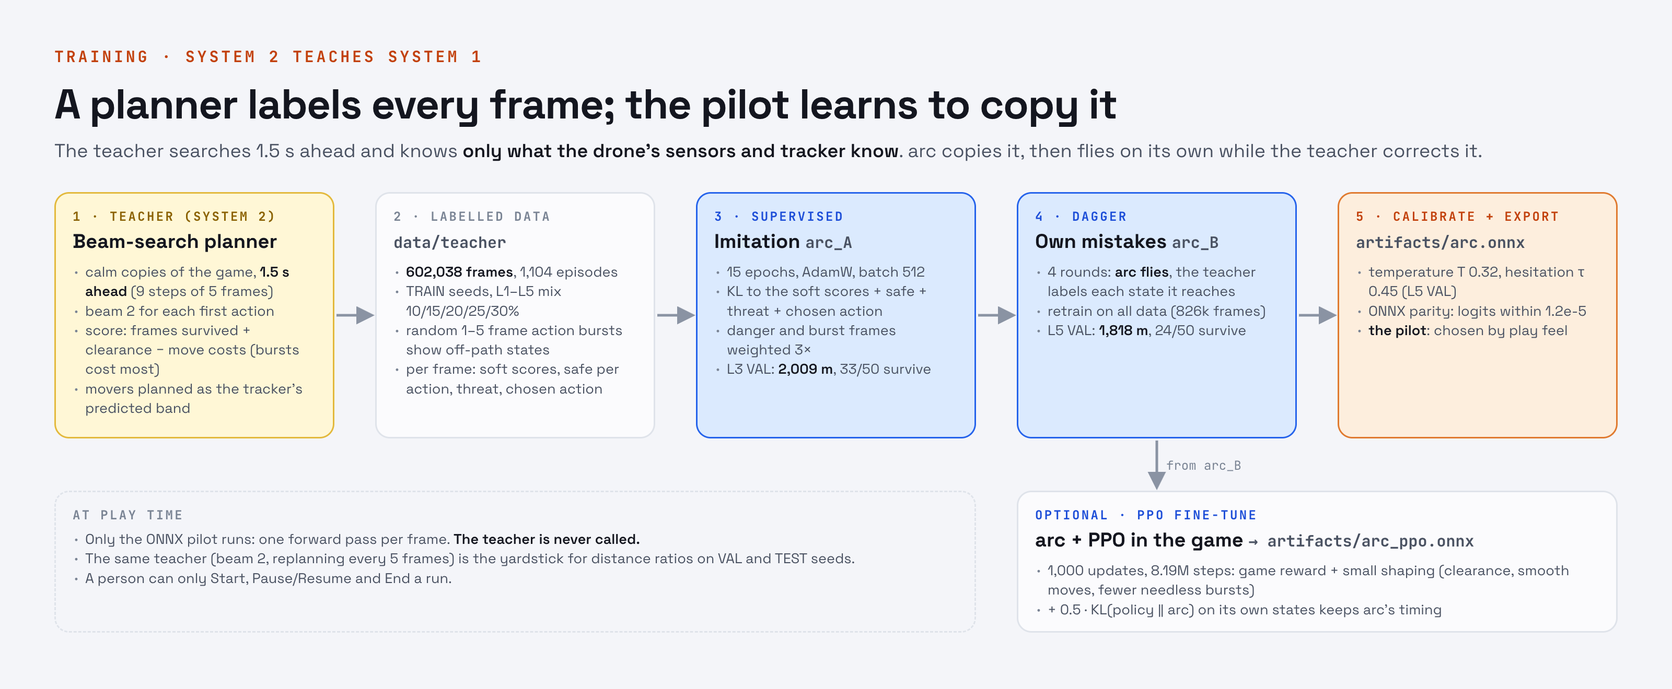
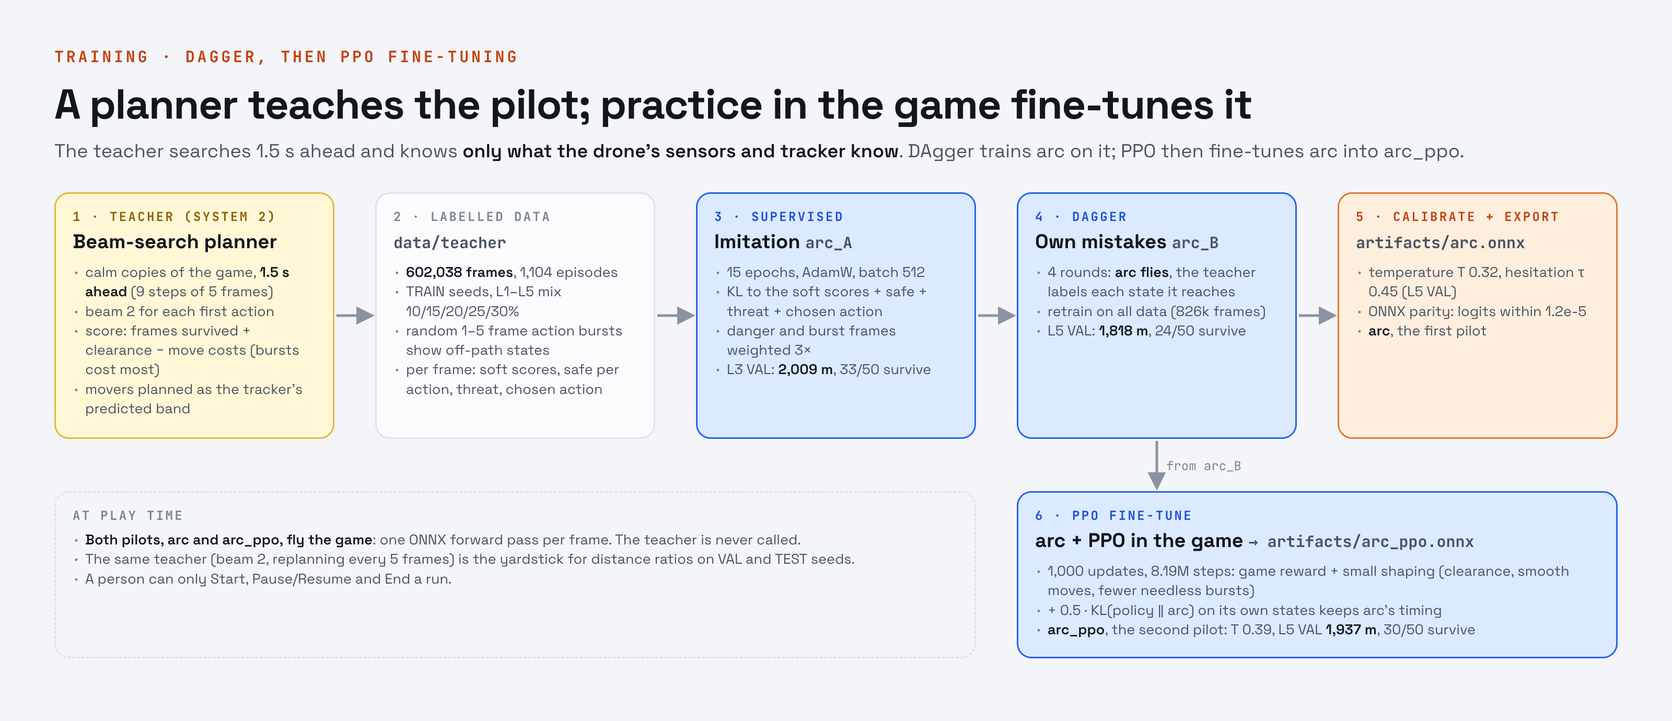
arc_ppo: TEST and STRESS; docs present both trained pilots
arc is trained with DAgger and arc_ppo is arc fine-tuned with PPO. Both
are finished pilots and both fly in the game; the docs no longer call
PPO optional or a try.

arc_ppo was run once on the same TEST and STRESS seeds as arc: L5 TEST
ratio 0.943 (arc 0.885), stress 1.001 (arc 0.978), stress drop -0.062.
L1-L5 TEST mean distance is a tie (1,982 m each). README, model card,
run log and the training pipeline figure are updated.

diff --git a/docs/figures/src/training_pipeline.html b/docs/figures/src/training_pipeline.html
@@ -1,7 +1,7 @@
 <!doctype html>
 <!-- Source of docs/figures/training_pipeline.png. Render from reflex-drone/:
      "/Applications/Google Chrome.app/Contents/MacOS/Google Chrome" --headless=new --hide-scrollbars \
-       --force-device-scale-factor=2 --window-size=1600,660 --virtual-time-budget=8000 \
+       --force-device-scale-factor=2 --window-size=1600,690 --virtual-time-budget=8000 \
        --screenshot=docs/figures/training_pipeline.png docs/figures/src/training_pipeline.html -->
 <html lang="en"><head><meta charset="utf-8"><title>Training pipeline</title>
 <link rel="stylesheet" href="https://fonts.googleapis.com/css2?family=JetBrains+Mono:wght@400;700&family=Space+Grotesk:wght@400;500;600;700&display=block">
@@ -11,13 +11,13 @@
  --bl:#2563eb;--bl-tint:#dbeafe;--bl-txt:#1d4ed8;--y-tint:#fff7d6;--y-line:#e3b93c;--y-txt:#8a6100;
  --sans:"Space Grotesk",system-ui,sans-serif;--mono:"JetBrains Mono",monospace}
 *{box-sizing:border-box;margin:0;padding:0}
-html,body{width:1600px;height:660px;background:var(--bg);font-family:var(--sans);color:var(--ink);-webkit-font-smoothing:antialiased;overflow:hidden}
+html,body{width:1600px;height:690px;background:var(--bg);font-family:var(--sans);color:var(--ink);-webkit-font-smoothing:antialiased;overflow:hidden}
 .page{padding:44px 52px 0}
 .kicker{font-family:var(--mono);font-weight:700;font-size:15px;letter-spacing:.16em;text-transform:uppercase;color:var(--or)}
 h1{font-weight:700;font-size:40px;letter-spacing:-.02em;margin-top:10px}
 .lead{font-size:18px;color:var(--ink2);margin-top:8px}
 .lead b{color:var(--ink);font-weight:600}
-.flow{position:relative;width:1496px;height:430px;margin-top:28px}
+.flow{position:relative;width:1496px;height:454px;margin-top:28px}
 .box{position:absolute;border-radius:14px;border:1.5px solid var(--line);background:var(--card);padding:14px 16px}
 .box .k{font-family:var(--mono);font-weight:700;font-size:12px;letter-spacing:.14em;text-transform:uppercase;color:var(--muted)}
 .box .t{font-weight:700;font-size:19px;margin-top:4px}
@@ -32,9 +32,9 @@ h1{font-weight:700;font-size:40px;letter-spacing:-.02em;margin-top:10px}
 .box.plain{border-style:dashed;background:transparent}
 svg.ov{position:absolute;left:0;top:0;overflow:visible}
 </style></head><body><div class="page">
-<div class="kicker">Training · System 2 teaches System 1</div>
-<h1>A planner labels every frame; the pilot learns to copy it</h1>
-<div class="lead">The teacher searches 1.5 s ahead and knows <b>only what the drone's sensors and tracker know</b>. arc copies it, then flies on its own while the teacher corrects it.</div>
+<div class="kicker">Training · DAgger, then PPO fine-tuning</div>
+<h1>A planner teaches the pilot; practice in the game fine-tunes it</h1>
+<div class="lead">The teacher searches 1.5 s ahead and knows <b>only what the drone's sensors and tracker know</b>. DAgger trains arc on it; PPO then fine-tunes arc into arc_ppo.</div>
 
 <div class="flow">
   <div class="box y" style="left:0;top:0;width:268px;height:236px">
@@ -60,23 +60,24 @@ svg.ov{position:absolute;left:0;top:0;overflow:visible}
   <div class="box or" style="left:1228px;top:0;width:268px;height:236px">
     <div class="k">5 · Calibrate + export</div>
     <div class="t"><code>artifacts/arc.onnx</code></div>
-    <ul><li>temperature T 0.32, hesitation τ 0.45 (L5 VAL)</li><li>ONNX parity: logits within 1.2e-5</li><li><b>the pilot</b>: chosen by play feel</li></ul>
+    <ul><li>temperature T 0.32, hesitation τ 0.45 (L5 VAL)</li><li>ONNX parity: logits within 1.2e-5</li><li><b>arc</b>, the first pilot</li></ul>
   </div>
 
-  <div class="box plain" style="left:0;top:286px;width:882px;height:136px">
+  <div class="box plain" style="left:0;top:286px;width:882px;height:160px">
     <div class="k">At play time</div>
-    <ul style="margin-top:6px"><li>Only the ONNX pilot runs: one forward pass per frame. <b>The teacher is never called.</b></li>
+    <ul style="margin-top:6px"><li><b>Both pilots, arc and arc_ppo, fly the game</b>: one ONNX forward pass per frame. The teacher is never called.</li>
     <li>The same teacher (beam 2, replanning every 5 frames) is the yardstick for distance ratios on VAL and TEST seeds.</li>
     <li>A person can only Start, Pause/Resume and End a run.</li></ul>
   </div>
-  <div class="box" style="left:921px;top:286px;width:575px;height:136px">
-    <div class="k" style="color:var(--bl-txt)">Optional · PPO fine-tune</div>
+  <div class="box bl" style="left:921px;top:286px;width:575px;height:160px">
+    <div class="k">6 · PPO fine-tune</div>
     <div class="t">arc + PPO in the game <code>→ artifacts/arc_ppo.onnx</code></div>
     <ul><li>1,000 updates, 8.19M steps: game reward + small shaping (clearance, smooth moves, fewer needless bursts)</li>
-    <li>+ 0.5 · KL(policy ‖ arc) on its own states keeps arc's timing</li></ul>
+    <li>+ 0.5 · KL(policy ‖ arc) on its own states keeps arc's timing</li>
+    <li><b>arc_ppo</b>, the second pilot: T 0.39, L5 VAL <b>1,937 m</b>, 30/50 survive</li></ul>
   </div>
 
-  <svg class="ov" width="1496" height="430">
+  <svg class="ov" width="1496" height="454">
     <defs><marker id="ah" viewBox="0 0 10 10" refX="8" refY="5" markerWidth="7" markerHeight="7" orient="auto-start-reverse"><path d="M0 0 L10 5 L0 10 z" fill="#8a93a3"/></marker></defs>
     <g stroke="#8a93a3" stroke-width="2.5" fill="none">
       <path d="M270 118 H303" marker-end="url(#ah)"/>

diff --git a/README.md b/README.md
@@ -1,5 +1,5 @@
 <h1 align="center">Project J'AI 2 · Reflex Drone</h1>
-<h3 align="center">arc: a System 1 pilot that flies a drone by reflex, one frame in and one move out, 30 times a second</h3>
+<h3 align="center">arc and arc_ppo: System 1 pilots that fly a drone by reflex, one frame in and one move out, 30 times a second</h3>
 
 <p align="center">
   <a href="https://medium.com/@jaiganesan"><img alt="Medium: @jaiganesan" src="https://img.shields.io/badge/Medium-@jaiganesan-000000?style=for-the-badge&logo=medium&logoColor=white"></a>
@@ -23,11 +23,16 @@
 
 <sub>arc flying the endless level on its own at 10.9–11.0 km (L5+, 12 m/s), through gusts, a speed surge, a downdraft, storm clouds, birds and a plane. The full 70-second run is <a href="#watch-the-full-run">below</a>.</sub>
 
-| **179,847** | **0.14 ms** | **93% · 43%** | **5.1 km** |
+| **179,847** | **0.14 ms** | **0.89 · 0.94** | **5.1 · 6.8 km** |
 | :---: | :---: | :---: | :---: |
-| weights in a 1 MB ONNX file | per decision on one CPU thread (p99 0.16 ms) | of L1 · L5 TEST runs fly the full 200 s | median endless run before the first crash |
+| weights per pilot, in a 1 MB ONNX file | per decision on one CPU thread (p99 0.16 ms) | L5 TEST distance ratio against the planner (arc · arc_ppo) | median endless run before the first crash (arc · arc_ppo) |
 
-DroneDash is a Chrome-Dino-style side-scroller in which a drone flies itself. Each frame, it reads its sensors and picks one of five actions: HOLD, ASCEND, DESCEND, JUMP or DUCK. The pilot, **arc**, is a 179,847-weight attention network. It learned by copying a planner that searches 1.5 s ahead, and at play time only arc runs. A person can Start, Pause/Resume or End a run, and nothing else. Everything runs on one MacBook Air: the game and pilot on the CPU, training on Apple MPS, with packages from [uv](https://docs.astral.sh/uv/).
+DroneDash is a Chrome-Dino-style side-scroller in which a drone flies itself. Each frame, it reads its sensors and picks one of five actions: HOLD, ASCEND, DESCEND, JUMP or DUCK. The pilot is a 179,847-weight attention network, trained with two methods:
+
+- **arc** is trained with **DAgger**. It learns by copying a planner that searches 1.5 s ahead, then flies on its own while the planner labels every state it reaches.
+- **arc_ppo** is arc **fine-tuned with PPO** in the game itself: the same network with new weights.
+
+Both are trained pilots, and **both fly in the game**: `--agent` picks which one. At play time only the pilot runs, never the planner. A person can Start, Pause/Resume or End a run, and nothing else. Everything runs on one MacBook Air: the game and pilot on the CPU, training on Apple MPS, with packages from [uv](https://docs.astral.sh/uv/).
 
 > [!NOTE]
 > **Objective.** Train a Type 1 decision model: fast, automatic and pattern-driven, in the sense of Kahneman's System 1. The model flies a drone through a side-scroller. Each frame, it observes the world and picks one of 5 actions with minimal latency. The goal is to survive as long as possible and fly as far as possible, using learned reflexes rather than planning.
@@ -35,9 +40,9 @@ DroneDash is a Chrome-Dino-style side-scroller in which a drone flies itself. Ea
 | Contents | |
 | --- | --- |
 | [1. What is the project?](#1-what-is-the-project) | The scenario rules, the game, the snapshot |
-| [2. Architecture](#2-architecture) | The decision model, its inputs and outputs, weight counts, and how it was trained |
+| [2. Architecture](#2-architecture) | The decision model, its inputs and outputs, weight counts, and training (DAgger, then PPO) |
 | [3. Simple maths](#3-simple-maths) | Physics, tokens, attention, the decision, the teacher, the losses, the metric |
-| [4. Results and discussion](#4-results-and-discussion) | VAL and TEST, how it flies, endless runs, the gates, arc vs arc_ppo |
+| [4. Results and discussion](#4-results-and-discussion) | VAL and TEST for both pilots, how they fly, endless runs, the gates, arc vs arc_ppo |
 | [5. How to use this repo](#5-how-to-use-this-repo) | Install, play, train, evaluate, test, use from code, layout |
 
 ---
@@ -101,7 +106,7 @@ arc flying the endless level on its own for 70 s, uncut, from 10.46 to 11.28 km 
 
 ### 2.1 The decision model
 
-arc is shown in the figure at the top. One frame becomes a **set of 20 tokens**, each 64 wide, with no position embeddings, because obstacles have no natural order:
+arc is shown in the figure at the top. arc_ppo has the same network and differs only in its weights. One frame becomes a **set of 20 tokens**, each 64 wide, with no position embeddings, because obstacles have no natural order:
 
 | Token | Input | Encoder |
 | --- | --- | --- |
@@ -133,9 +138,11 @@ Code: `models/arc.py`. Settings: `configs/train/arc.yaml`.
 | Value head (training only, not exported) | 65 |
 | **Total** | **179,847** (179,782 in `artifacts/arc.onnx`) |
 
-### 2.2 Training: System 2 teaches System 1
+### 2.2 Training: DAgger, then PPO
 
 ![Training pipeline](docs/figures/training_pipeline.png)
+
+Two training methods, one after the other. **DAgger** trains arc from the planner (System 2 teaches System 1, steps 1–5). **PPO** then fine-tunes arc by practice in the game, which gives arc_ppo (step 6). Both pilots are calibrated, exported to ONNX and flown in the game.
 
 1. **Teacher** (`teacher/planner.py`, `configs/train/teacher.yaml`). A beam search on calm copies of the game: 9 macro steps of 5 frames (1.5 s), with a beam of 2 for each first action.
    - It knows only what the pilot knows: the 20 m sensor range, and movers as the tracker's predicted band.
@@ -145,10 +152,12 @@ Code: `models/arc.py`. Settings: `configs/train/arc.yaml`.
    - Labels for each frame: soft scores, safe per action, threat, and the chosen action.
 3. **Supervised** `arc_A` (`train/supervised.py`). 15 epochs on Apple MPS, about 8 minutes.
 4. **DAgger** `arc_B` (`data/dagger.py`). 4 rounds: arc flies, the teacher labels every state it reaches, and arc retrains on all the data so far (826k frames).
-5. **Calibrate and export** (`train/calibrate.py`, `train/export_onnx.py`).
+5. **Calibrate and export arc** (`train/calibrate.py`, `train/export_onnx.py`) to `artifacts/arc.onnx`.
    - Temperature T = 0.32. Hesitation threshold τ = 0.45, shown on the HUD and never handed off.
    - ONNX logits are within 1.2e-5 of PyTorch.
-6. **Optional PPO** (`train/ppo.py`, run `arc_ppo`). 1,000 updates in the real game, anchored to arc by a KL term.
+6. **PPO fine-tuning: arc_ppo** (`train/ppo.py`, `scripts/train_arc_ppo.sh`). Starting from arc's weights, 1,000 updates of practice in the real game, anchored to arc by a KL term.
+   - The best update (560) is calibrated (T = 0.39, τ = 0.45) and exported to `artifacts/arc_ppo.onnx`.
+   - ONNX logits are within 1.1e-5 of PyTorch.
 
 | Setting | Supervised `arc_A` | DAgger `arc_B` | PPO `arc_ppo` |
 | --- | --- | --- | --- |
@@ -232,17 +241,19 @@ Mean distance, and the share of runs that fly the full 200 s. Each run is capped
 | | L1 | L2 | L3 | L4 | L5 | stress |
 | --- | --- | --- | --- | --- | --- | --- |
 | **arc, TEST** (100 unseen seeds, run once) | 1,947 m · 93% | 2,174 m · 77% | 2,020 m · 65% | 2,070 m · 63% | 1,697 m · 43% | 832 m · 2% |
+| **arc_ppo, TEST** (the same seeds, run once) | 1,999 m · 98% | 2,071 m · 73% | 1,996 m · 64% | 2,035 m · 66% | 1,808 m · 51% | 852 m · 3% |
+| arc_ppo − arc on TEST, paired, ± 1 se | +52 ± 36 m | −103 ± 51 m | −24 ± 70 m | −35 ± 89 m | +111 ± 102 m | +20 ± 90 m |
 | arc, VAL (50 seeds) | 1,922 m · 92% | 2,112 m · 80% | 2,135 m · 76% | 1,881 m · 52% | 1,818 m · 48% | |
 | arc_ppo, VAL (same 50 seeds) | 2,012 m · 98% | 2,057 m · 72% | 2,092 m · 72% | 1,866 m · 56% | 1,937 m · 60% | |
-| arc_ppo − arc, paired, ± 1 se | +91 ± 54 m | −55 ± 130 m | −43 ± 92 m | −15 ± 133 m | +120 ± 130 m | |
+| arc_ppo − arc on VAL, paired, ± 1 se | +91 ± 54 m | −55 ± 130 m | −43 ± 92 m | −15 ± 133 m | +120 ± 130 m | |
 
-**The headline result is arc's L5 TEST distance ratio: 0.89**, at an `act()` p99 of 0.16 ms.
+**The headline result is the L5 TEST distance ratio: 0.89 for arc and 0.94 for arc_ppo**, at an `act()` p99 of 0.16 ms.
 
-- **L5 TEST:** the reference planner flies 1,918 m on the same 100 seeds (57% survive); arc flies 1,697 m.
-- **Stress:** arc's ratio is 0.98. The planner also struggles there: 851 m, with 3% of runs surviving.
+- **L5 TEST:** the reference planner flies 1,918 m on the same 100 seeds (57% survive). arc flies 1,697 m and arc_ppo 1,808 m.
+- **Stress:** arc's ratio is 0.98 and arc_ppo's 1.00. The planner also struggles there: 851 m, with 3% of runs surviving.
 - **L5 VAL:** against the planner's 1,953 m (33 of 50 survive), arc's ratio is 0.93 and arc_ppo's is 0.99.
 
-### 4.2 How it flies
+### 4.2 How they fly
 
 Jai judges a pilot by how it looks in play: it should fly smoothly at a sensible height, mostly HOLD, and use slow moves first. Measured greedily on 8 VAL seeds per level:
 
@@ -265,13 +276,13 @@ The recording above is arc on another endless seed, still flying at 11.3 km.
 | G3 first reflexes | `arc_A` ratio ≥ 0.50 on L3 VAL | pass: 2,009 m, 33/50 survive (ratio 1.40 against the planner of that time) |
 | G4 corrected | `arc_B` ratio ≥ 0.75 on L5 VAL | pass: 0.93 |
 | G5 practised | final pilot's ratio ≥ 0.90 on L5 VAL | pass: arc 0.93, arc_ppo 0.99 |
-| G6 final | `act()` p99 < 1 ms; stress drop ≤ 0.20 | pass: p99 0.16 ms; stress drop −0.10 (0.98 vs 0.89) |
+| G6 final | `act()` p99 < 1 ms; stress drop ≤ 0.20 | pass for both: p99 0.16 ms; stress drop −0.10 for arc (0.98 vs 0.89) and −0.06 for arc_ppo (1.00 vs 0.94) |
 
 Ratios use the current reference: `teacher.yaml`, beam 2, replanning every 5 frames. G2 (the teacher's own gate) was checked in session 3 for the first teacher. It has not been re-run for the v2.3 teacher, which flies the full 200 s on 33 of 50 L5 VAL seeds.
 
 ### 4.4 Discussion
 
-- **The reflex is real.** One forward pass of 0.14 ms flies 89% as far as the teacher's 1.5 s search on L5 TEST (93% on VAL). On L1, 93% of TEST runs fly the full 200 s. arc never calls a planner; its look-ahead is learned.
+- **The reflex is real.** One forward pass of 0.14 ms flies 89% (arc) and 94% (arc_ppo) as far as the teacher's 1.5 s search on L5 TEST. On L1, 93% and 98% of TEST runs fly the full 200 s. Neither pilot calls a planner; the look-ahead is learned.
 - **Timing comes from the teacher.** arc starts its moves about 1.0–1.15 s before an obstacle reaches its path, close to the teacher's 1.15–1.25 s, not at the last moment. It holds 77–92% of the time and mostly uses ASCEND and DESCEND.
 - **The student copies only what it can see.** Earlier teachers knew things the pilot didn't: a bird's exact path, or obstacles beyond sensor range. Their students held where the teacher moved. The fix was to give both the same view: sensor-limited planning, and an object tracker that both of them use.
 - **Where arc fails.**
@@ -280,10 +291,10 @@ Ratios use the current reference: `teacher.yaml`, beam 2, replanning every 5 fra
   - Stress (14.4 m/s, every interruption at once) is far outside its training. Only 2% of stress runs survive.
 - **arc vs arc_ppo.**
   - PPO with a KL anchor kept arc's timing and height. It is the first PPO pilot here that did not turn late or cruise near the ceiling.
-  - It removed the ceiling crashes (0 vs 15 on VAL), cut bursts by a third and flew longer endless runs.
-  - It crashed more often into sudden storm clouds and traffic drones.
-  - Over L1–L5 VAL, mean distance is a tie (1,993 m vs 1,974 m); only the L1 gain is beyond seed noise.
-  - **arc stays the chosen pilot.** arc_ppo is kept as a try to compare against and has not been run on TEST.
+  - It nearly removed the ceiling crashes: 5 vs 31 on L1–L5 TEST, 4 vs 22 in stress, and 0 vs 15 on VAL. It also cut bursts by a third and flew longer endless runs.
+  - It crashes more often into buildings and traffic drones: 34 vs 24 and 11 vs 7 on L1–L5 TEST, and 25 vs 13 and 16 vs 8 in stress.
+  - Over L1–L5 TEST, mean distance is a tie (1,982 m each). arc_ppo is ahead on L1 and L5 (L5 ratio 0.94 vs 0.89), behind on L2 (−103 ± 51 m) and level in stress.
+  - **Both are finished pilots: both were run once on the same TEST and stress seeds, and both fly in the game.** arc_ppo is the steadier flier on long runs. arc is a little better on L2.
 
 More detail: inputs, network and training are in [reports/arc_model_card.md](reports/arc_model_card.md), and every run is in [reports/run_log.md](reports/run_log.md).
 
@@ -299,10 +310,12 @@ uv sync
 
 ### Play
 
+Both trained pilots fly in the game. Pass either ONNX file to `--agent`:
+
 ```bash
-uv run python -m app.play --agent onnx-arc:artifacts/arc.onnx                                   # arc, endless mode
+uv run python -m app.play --agent onnx-arc:artifacts/arc.onnx                                   # arc (DAgger), endless mode
+uv run python -m app.play --agent onnx-arc:artifacts/arc_ppo.onnx                               # arc_ppo (DAgger + PPO), endless mode
 uv run python -m app.play --agent onnx-arc:artifacts/arc.onnx --level L5 --seed 42 --show-attention
-uv run python -m app.play --agent onnx-arc:artifacts/arc_ppo.onnx                               # arc_ppo
 uv run python -m app.play --agent rule                                                          # hand-written test pilot
 ```
 
@@ -313,21 +326,21 @@ uv run python -m app.play --agent rule                                          
 | Q, Esc, **End** | End the run (on the summary screen: back to the title) |
 
 Flags are fixed for the whole session:
-- `--agent`: `onnx-arc:<path>`, `rule` or `random`.
+- `--agent`: `onnx-arc:<path>` (`artifacts/arc.onnx` or `artifacts/arc_ppo.onnx`), `rule` or `random`.
 - `--level`: `L1`–`L5`, `endless` (the default) or `stress`.
 - `--seed N`, `--log-frames`, `--show-attention`.
 
 Each run writes `runs/play/<time>_seed<seed>.json`, plus a per-frame CSV with `--log-frames`.
 
 > [!IMPORTANT]
-> `artifacts/`, `runs/`, `data/*/` and `reports/*.json` are git-ignored, so the trained pilots exist only on the machine that made them. On a fresh clone, run `bash scripts/train_arc.sh` first (about 1 h on AC power), or play the `rule` agent.
+> `artifacts/`, `runs/`, `data/*/` and `reports/*.json` are git-ignored, so the trained pilots exist only on the machine that made them. On a fresh clone, run `bash scripts/train_arc.sh` for arc (about 1 h on AC power), then `bash scripts/train_arc_ppo.sh` for arc_ppo (about 2.5 h), or play the `rule` agent.
 
 ### Train and evaluate
 
 ```bash
 bash scripts/smoke_pipeline.sh     # every step at toy size, about 3 min
-bash scripts/train_arc.sh          # teacher data -> supervised -> DAgger -> calibrate -> artifacts/arc.onnx -> VAL (about 1 h)
-bash scripts/train_arc_ppo.sh      # optional: PPO from arc -> artifacts/arc_ppo.onnx -> VAL (about 2.5 h on AC)
+bash scripts/train_arc.sh          # arc: teacher data -> supervised -> DAgger -> calibrate -> artifacts/arc.onnx -> VAL (about 1 h)
+bash scripts/train_arc_ppo.sh      # arc_ppo: PPO fine-tuning of arc -> calibrate -> artifacts/arc_ppo.onnx -> VAL (about 2.5 h on AC)
 
 uv run python -m eval.evaluate --agent onnx-arc:artifacts/arc.onnx --levels L1 L2 L3 L4 L5 --seeds val --out reports/arc_val.json
 uv run python -m eval.evaluate --agent planner --levels L5 --seeds val --out reports/planner_val.json      # the reference
@@ -335,7 +348,7 @@ uv run python -m eval.latency --agent onnx-arc:artifacts/arc.onnx --calls 10000 
 uv run python scripts/calibrate_tracker.py                                                                # after changing bird or drone motion
 ```
 
-- Run TEST and STRESS (`--seeds test --levels ... stress`) **once**, for the final pilot only.
+- Run TEST and STRESS (`--seeds test --levels ... stress`) **once** per finished pilot, never to pick settings. arc and arc_ppo have each had their run (`reports/arc_final.json`, `reports/arc_ppo_final.json`).
 - On a Mac, train on AC power under `caffeinate -i`. Low Power Mode makes the planner 3–10× slower and inflates latency numbers.
 - Settings: `configs/train/teacher.yaml` (the teacher and the reference), `collect.yaml`, `arc.yaml`, `dagger.yaml` and `ppo.yaml`.
 
@@ -353,7 +366,7 @@ uv run python -m app.rule_eval       # rule agent on the 50 L1 VAL seeds
 import gymnasium, drone_env
 from app.agents_base import load_agent
 
-pilot = load_agent("onnx-arc:artifacts/arc.onnx")             # or "rule", "random"
+pilot = load_agent("onnx-arc:artifacts/arc.onnx")             # or "onnx-arc:artifacts/arc_ppo.onnx", "rule", "random"
 env = gymnasium.make("DroneDash-v0", level="L3", max_frames=6_000)
 obs, info = env.reset(seed=123)
 pilot.reset(env.unwrapped.action_descriptors())

diff --git a/reports/arc_model_card.md b/reports/arc_model_card.md
@@ -96,8 +96,8 @@ The feed-forward layers are 4 × d wide. The 2 × d version (130,311 weights) fl
    - **Selection:** best round (4) by L5 VAL.
 6. **Calibrate again, export to ONNX** (parity check: logits within 1.2e-5 of PyTorch), evaluate.
 
-arc itself uses no reinforcement learning; arc_ppo (below) is arc plus PPO. At play time only the pilot runs;
-the planner is never called.
+arc is trained with DAgger and uses no reinforcement learning; arc_ppo (below) is arc fine-tuned with PPO. Both are
+trained pilots and both fly in the game. At play time only the pilot runs; the planner is never called.
 
 `scripts/train_arc.sh` runs steps 2–6.
 
@@ -152,19 +152,27 @@ the weights differ.
 - **Selection:** the best checkpoint by mean distance ratio on L1, L3 and L5 (10 VAL seeds each, every 20 updates):
   update 560. Then calibration (T 0.39, τ 0.45) and ONNX export (parity within 1.1e-5).
 
-**Results** (VAL, the same 50 seeds per level as arc):
+**Results** (the same seeds as arc; TEST and STRESS run once, 20 Oct 2026):
 
-| | L1 | L2 | L3 | L4 | L5 |
-|---|---|---|---|---|---|
-| arc_ppo | 2,012 m · 98% | 2,057 m · 72% | 2,092 m · 72% | 1,866 m · 56% | 1,937 m · 60% |
-| arc | 1,922 m · 92% | 2,112 m · 80% | 2,135 m · 76% | 1,881 m · 52% | 1,818 m · 48% |
+| | L1 | L2 | L3 | L4 | L5 | stress |
+|---|---|---|---|---|---|---|
+| arc_ppo, TEST (100 seeds) | 1,999 m · 98% | 2,071 m · 73% | 1,996 m · 64% | 2,035 m · 66% | 1,808 m · 51% | 852 m · 3% |
+| arc, TEST | 1,947 m · 93% | 2,174 m · 77% | 2,020 m · 65% | 2,070 m · 63% | 1,697 m · 43% | 832 m · 2% |
+| arc_ppo, VAL (50 seeds) | 2,012 m · 98% | 2,057 m · 72% | 2,092 m · 72% | 1,866 m · 56% | 1,937 m · 60% | |
+| arc, VAL | 1,922 m · 92% | 2,112 m · 80% | 2,135 m · 76% | 1,881 m · 52% | 1,818 m · 48% | |
 
-- **Distance:** a tie overall (mean 1,993 m vs 1,974 m). Better on L1 and L5, slightly worse on L2 and L3; only the L1
-  gain is beyond seed noise.
-- **Crashes:** no ceiling crashes (arc: 15). More storm-cloud (17 vs 10) and traffic-drone (7 vs 2) crashes.
+- **Distance:** a tie overall (L1–L5 TEST mean 1,982 m each; VAL 1,993 m vs 1,974 m). Better on L1 and L5, worse on
+  L2 (TEST −103 ± 51 m), level in stress.
+- **Distance ratio** (reference planner, same seeds): L5 TEST 0.94 (arc 0.89), stress 1.00 (arc 0.98), so the stress
+  drop is −0.06 (gate G6: ≤ 0.20). L5 VAL 0.99 (planner 1,953 m).
+- **Crashes:**
+  - Ceiling: 5 vs 31 on L1–L5 TEST, 4 vs 22 in stress, 0 vs 15 on VAL.
+  - More building and traffic-drone crashes: 34 vs 24 and 11 vs 7 on L1–L5 TEST, 25 vs 13 and 16 vs 8 in stress.
+  - Storm clouds: 17 vs 10 on VAL, but level on TEST (20 vs 18) and fewer in stress (11 vs 26).
 - **Feel:** like arc:
   - same holds and timing (moves start a median 1.0-1.13 s ahead) and same mean height;
   - a third fewer bursts (0.2 / 0.6 / 1.1 per min at L1 / L3 / L5).
 - **Endless:** median 6.8 km in 18 long runs (arc 5.1 km, same seeds); 72% pass 6 km (arc 39%).
-- **Distance ratio:** L5 VAL 0.99 (planner 1,953 m).
-- **TEST/STRESS:** not run. arc stays the chosen pilot and arc_ppo is kept as a try; TEST runs only if that changes.
+- **Latency:** `act()` p50 0.141 ms, p99 0.155 ms on AC power (gate: p99 < 1 ms).
+- **In the game:** `uv run python -m app.play --agent onnx-arc:artifacts/arc_ppo.onnx`, the same way as arc. The owner
+  played it in endless on 18 Oct 2026 (5,646 m and 5,214 m).

diff --git a/reports/run_log.md b/reports/run_log.md
@@ -151,3 +151,42 @@ against the code and the game results, and to rewrite the README with an archite
     into the editor on github.com), the only kind of video that plays inside a README.
 - **Not changed:** `wall_seconds_running` in the play summary (`app/play.py`) adds up only the time inside
   `step_once` (simulation + pilot), not wall time. It shows 14 s for a 477 s run.
+
+## Two trained pilots: arc (DAgger) and arc_ppo (PPO fine-tuning) (owner, 20 Oct 2026)
+
+The owner: "We used two training methods, DAgger and PPO. Don't mention PPO as just a try. It's also trained. We
+trained with DAgger and fine-tuned with PPO. Clearly mention that both models run in the game."
+
+- **Status:** this replaces the 19 Oct status line. arc (DAgger) and arc_ppo (arc + PPO) are both trained pilots, and
+  both fly in the game (`--agent onnx-arc:artifacts/arc.onnx` or `onnx-arc:artifacts/arc_ppo.onnx`).
+- **Check:** both ONNX files loaded through `load_agent` (the loader `app/play.py` uses) and flew 60 s of endless
+  (seed 123) without a crash.
+- **Docs:** the README (title, intro, §2.2, §4.4, Play, Train), the model card and `docs/figures/training_pipeline.png`
+  (source `docs/figures/src/training_pipeline.html`, re-rendered) now present both pilots and no longer call PPO
+  optional or a try.
+
+## arc_ppo: TEST and STRESS (owner, 20 Oct 2026, once)
+
+The owner asked to test arc_ppo and update the docs. Run once, on the same TEST and STRESS seeds as arc:
+`eval.evaluate --agent onnx-arc:artifacts/arc_ppo.onnx --levels L1 L2 L3 L4 L5 stress --seeds test --out
+reports/arc_ppo_final.json` (268 s, on battery in Low Power Mode; distances do not depend on speed). Log
+`runs/logs/arc_ppo_final.log`. Ratios come from the cached reference `reports/planner_final.json` (L5 and stress).
+
+| | L1 | L2 | L3 | L4 | L5 | stress |
+|---|---|---|---|---|---|---|
+| arc (`reports/arc_final.json`) | 1,947 m · 93% | 2,174 m · 77% | 2,020 m · 65% | 2,070 m · 63% | 1,697 m · 43% | 832 m · 2% |
+| arc_ppo (`reports/arc_ppo_final.json`) | 1,999 m · 98% | 2,071 m · 73% | 1,996 m · 64% | 2,035 m · 66% | 1,808 m · 51% | 852 m · 3% |
+| paired difference ± 1 se | +52 ± 36 m | −103 ± 51 m | −24 ± 70 m | −35 ± 89 m | +111 ± 102 m | +20 ± 90 m |
+
+- **Ratios:** L5 TEST arc 0.885, arc_ppo 0.943; stress arc 0.978, arc_ppo 1.001. Stress drop: arc −0.105, arc_ppo
+  −0.062. G6 passes for both.
+- **Distance:** L1–L5 TEST mean 1,982 m for both. arc_ppo is ahead on L1 and L5 and behind on L2 (2 se).
+- **Crashes, L1–L5 TEST:**
+  - arc: tree 38, ceiling 31, building 24, storm 18, bird 16, pole 12, kite 11, traffic 7, ground 2 (159).
+  - arc_ppo: tree 36, building 34, storm 20, bird 16, pole 15, traffic 11, kite 10, ceiling 5, ground 1 (148).
+- **Crashes, stress:**
+  - arc: storm 26, ceiling 22, bird 13, building 13, traffic 8, tree 7, pole 5, ground 3, kite 1 (98).
+  - arc_ppo: building 25, traffic 16, tree 13, storm 11, bird 10, kite 9, pole 8, ceiling 4, ground 1 (97).
+- **Reading:** TEST agrees with VAL. arc_ppo nearly removes ceiling crashes and hits more buildings and traffic
+  drones; overall distance is a tie. The VAL excess of storm crashes (17 vs 10) did not repeat on TEST.
+- **Docs:** README (stat tile, §4.1 table and headline, G6, §4.4, the TEST rule), the model card's arc_ppo results.
